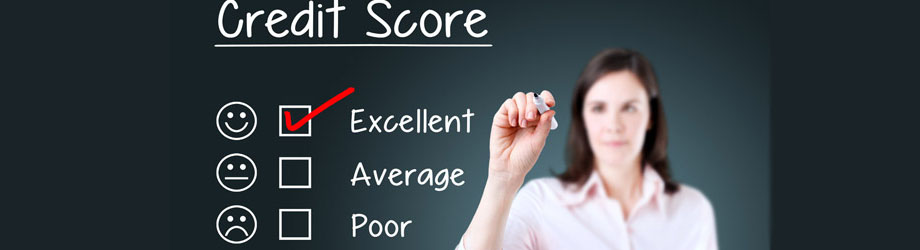
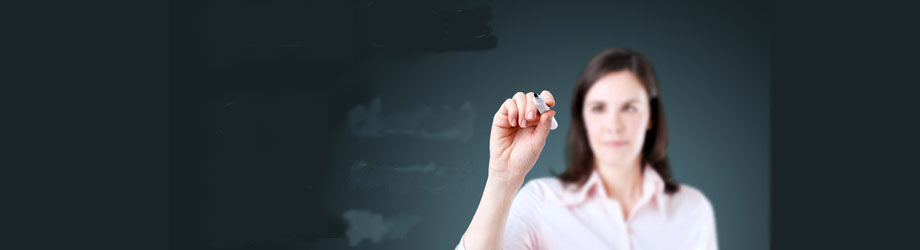
services page text changed

diff --git a/public/css/style.css b/public/css/style.css
@@ -2204,3 +2204,7 @@ ul.demo {
     color: #fff;
     transform: translate(-50%, -50%);
 }
+
+#centered_p {
+    background-color: rgba(45,45,45, 0) !important;
+}

diff --git a/resources/views/inc/about_body.blade.php b/resources/views/inc/about_body.blade.php
@@ -6,7 +6,7 @@
 		<img src="images/about_us.png" class="img-responsive" alt="" width="100%">
 		<div class="centered">
 			<h3>About us</h3>
-				<p>Based in North west and run by an experienced team of debt collectors and legal experts, making us one of the UK’s leading debt collection agencies. Our extensive client base ranges across the board.<br><br>
+				<p id="centered_p">Based in North west and run by an experienced team of debt collectors and legal experts, making us one of the UK’s leading debt collection agencies. Our extensive client base ranges across the board.<br><br>
 				NO SUCCESS = NO FEE on all debt recovery collections. We do not seek up-front payments.<br>
 				We have a high success rate, envied by many of our competitors. In fact we are proud to act for a number of other debt collection agencies as the final step when they failed to collect themselves. Our modern computer technology has direct access to up-to-date credit information systems, which enables us to investigate the profile of your debtor mote thoroughly, thus ensuring the best course of debt collection action is taken for each and every account. We offer a highly professional and effective service resulting in a high degree of success. Our commission rates offer excellent value for the work we undertake.
 				</p>	
@@ -105,37 +105,7 @@
 									<h5><a href="single.html">Pellentesque dui, non felis. Maecenas male</a> </h5>
 								</div>
 								<div class="clearfix"> </div>
-							</div>
-							<div class="blog-grids">
-								<div class="blog-grid-left">
-									<a href="single.html"><img src="images/g3.jpg" class="img-responsive" alt=""/></a>
-								</div>
-								<div class="blog-grid-right">
-
-									<h5><a href="single.html">Pellentesque dui, non felis. Maecenas male</a> </h5>
-								</div>
-								<div class="clearfix"> </div>
-							</div>
-							<div class="blog-grids">
-								<div class="blog-grid-left">
-									<a href="single.html"><img src="images/g5.jpg" class="img-responsive" alt=""/></a>
-								</div>
-								<div class="blog-grid-right">
-
-									<h5><a href="single.html">Pellentesque dui, non felis. Maecenas male</a> </h5>
-								</div>
-								<div class="clearfix"> </div>
-							</div>
-							<div class="blog-grids">
-								<div class="blog-grid-left">
-									<a href="single.html"><img src="images/g1.jpg" class="img-responsive" alt=""/></a>
-								</div>
-								<div class="blog-grid-right">
-
-									<h5><a href="single.html">Pellentesque dui, non felis. Maecenas male</a> </h5>
-								</div>
-								<div class="clearfix"> </div>
-							</div>
+							</div>							
 						</div>
 					</div>
 				</div>

diff --git a/resources/views/inc/services_body2.blade.php b/resources/views/inc/services_body2.blade.php
@@ -1,5 +1,12 @@
 <div class="banner_bottom">
 	<img src="images/credit_control.jpg" class="img-responsive" alt="" width="100%">
+	<div class="centered">
+		<h3>Credit Control</h3>
+			<p>Run by qualified, experienced and knowledgeable credit control staff, we can provide a targeted structured and consistent approach to your credit control.<br>
+			Outsourcing Credit Control<br>
+			What’s more is your customers need never know you outsource your collections to us; all our communications can be carried out seamlessly in your company’s name on all collections platforms: post, telephone and email. Credit control activity carried out seamlessly in your company’s name.
+			</p>	
+	</div>
 	<div class="container">
 		<div class="row">
 			<div class="col-md-4 service_text">

diff --git a/resources/views/inc/services_body4.blade.php b/resources/views/inc/services_body4.blade.php
@@ -1,5 +1,11 @@
 <div class="banner_bottom">
 	<img src="images/trace_customers.jpg" class="img-responsive" alt="" width="100%">
+	<div class="centered">
+		<h3>Track Customers</h3>
+			<p>Do you have absconded debtors or tenants who has left owing rent? Has your partner vanished and is not paying child support? Are you looking to get back in touch with an old school friend? If so then Tracesure can help!<br>
+			Tracesure provide assistance to hundreds of people a week who are looking to trace individuals for a variety of reasons. Working on a "No trace - No Fee" basis.
+			</p>	
+	</div>
 	<div class="container">
 		<div class="row">
 			<div class="col-md-4 service_text">

diff --git a/resources/views/inc/services_body5.blade.php b/resources/views/inc/services_body5.blade.php
@@ -1,5 +1,10 @@
 <div class="banner_bottom">
 	<img src="images/credit_checking.jpg" class="img-responsive" alt="" width="100%">
+	<div class="centered">
+		<h3>Credit Checking</h3>
+			<p>Credit checking assess your debtors ability to pay. As part of our commitment to excellence, SDC Collectors are proud to partner one of the UK's leading Business Credit Reference Agencies.
+			</p>	
+	</div>
 	<div class="container">
 		<div class="row">
 			<div class="col-md-4 service_text">

diff --git a/resources/views/inc/services_body3.blade.php b/resources/views/inc/services_body3.blade.php
@@ -1,5 +1,10 @@
 <div class="banner_bottom">
 	<img src="images/legal_debt_recovery.jpg" class="img-responsive" alt="" width="100%">
+	<div class="centered">
+		<h3>Legal Debt Recovery</h3>
+			<p>If a debt is still not paid, we will discuss and agree with you whether to issue legal proceedings in court or insolvency proceedings.
+			</p>	
+	</div>
 	<div class="container">
 		<div class="row">
 			<div class="col-md-4 service_text">

diff --git a/resources/views/inc/services_body1.blade.php b/resources/views/inc/services_body1.blade.php
@@ -1,5 +1,10 @@
 <div class="banner_bottom">
 	<img src="images/commercial_debt_collection.jpg" class="img-responsive" alt="" width="100%">
+	<div class="centered">
+		<h3>Commercial Debt Collection</h3>
+			<p>
+			</p>	
+	</div>
 	<div class="container">
 		<div class="row">
 			<div class="col-md-4 service_text">
